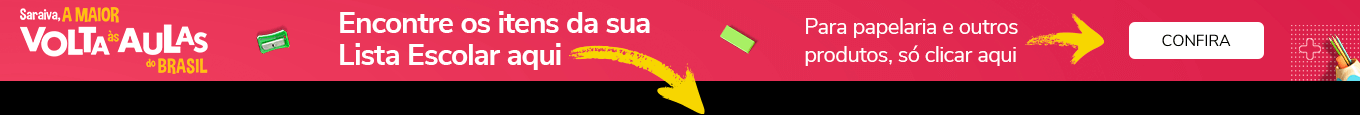
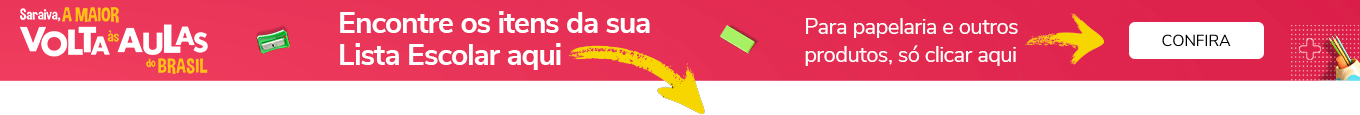
Deixei o formulario responsivo, anuncio e comecei os mais populares

Changed region(s): [[0.0, 0.6783, 1.0, 1.0]]

diff --git a/index.html b/index.html
@@ -2,10 +2,11 @@
 <html lang="pt-br">
     <head>
         <meta charset="utf-8">
+        <meta name="viewport" content="width=device-width, initial-scale=1.0">
         <title>Saraiva</title>
         <link rel="shortcut icon" href="img/fav-icon.png">
-        <link rel="stylesheet" href="style.css">
-        <link rel="stylesheet" href="responsivo.css">
+        <link rel="stylesheet" type="text/css" href="style.css">
+        <link rel="stylesheet" type="text/css" href="responsivo.css">
                 
     </head>
     <body>
@@ -23,7 +24,9 @@
                 <div id="pesquisa">
                     <!--- Menu responsivo -->
                     <div class="menu-responsivo">
-                   
+                        <span></span>
+                        <span></span>
+                        <span></span>
                     </div>
                     <!--- // Menu responsivo -->
                     <div class="img-logo" >
@@ -695,7 +698,10 @@
             <div class="carrossel">
                 <div class="slide slide-1" id="slide1">
                     <a href="#slide-9">Voltar</a>
-                    <img src="img/slide-1.png" alt="Imagem 1 Slide Carrossel">
+                    <picture>
+                        <source srcset="img/slide-1-resp.png" media="(max-width: 1024px)">
+                        <img srcset="img/slide1.png" alt="My default image">
+                    </picture>
                     <a href="#slide-2">Avançar</a>
                 </div>
                 <!-- Carrossel 
@@ -745,7 +751,12 @@
 
         <!-- anuncio -->
         <div class="anuncio">
-            <a href="#"><img src="img/anuncio.png" alt=""></a>
+            <a href="#">
+                <picture>
+                <source srcset="img/anuncio-resp.png" media="(max-width: 1024px)">
+                        <img srcset="img/anuncio.png" alt="My default image">
+                </picture>
+            </a>
         </div>
         <!-- // anuncio -->
         <!-- Encontre sua lista de material escolar -->

diff --git a/responsivo.css b/responsivo.css
@@ -1,4 +1,4 @@
-@media (max-width: 1024px){
+@media screen and (max-width: 1024px){
 header #mensagem-t {
     background-image: none;
     background-color: #3E3E3E;
@@ -7,17 +7,28 @@ header #mensagem-t {
 header #mensagem-t img{
         display: block;
         margin: 0 auto;
-        width: 100%;
+        max-width: 95%;
     }
 .header-fix #pesquisa .menu-responsivo{
+    width: 10%;
+    height: 10px;
     display: block;
     float: left;
+}
+.header-fix #pesquisa .menu-responsivo span{
+    width: 30px;
+    height: 2.5px;
+    border-radius: 2px;
+    background-color: #000;
+    float: left;
+    margin-top: 7px;
 }
 .header-fix #pesquisa .img-logo{
     width: 90%;
 }
 .header-fix #pesquisa .img-logo img{
     width:60%;
+    margin: 0 0 5px 10px;
 }
 .header-fix #pesquisa .barra-pesquisa{
     width: 100%;
@@ -31,7 +42,7 @@ header #mensagem-t img{
 }
 .header-fix #pesquisa  #favoritos{
     position: absolute;
-    right: 120px;
+    right: 70px;
 }
 .header-fix #pesquisa #favoritos img{
     width: 70%;
@@ -44,32 +55,43 @@ header #mensagem-t img{
 .header-fix #pesquisa #carrinho img{
     width: 50%;
 }
+.anuncio img {
+    max-width: 100%;
+}
 #menu {
     display: none;
 }
+#lista-de-material {
+    margin: 0;
+}
 #lista-de-material .form-title{
     width: 100%;
-    height: 130px;
+    margin-left: 5%;
 }
 #lista-de-material .form-title img {
     width: 5%;
     margin: 5% 5% 0 0;
 }
 #lista-de-material .form-title h1{
-    width:50%;
-    font-size: 55px;
+    width:85%;
+    font-size: 26px;
     float: left;
 }
 #lista-de-material form p{
     width: 100%;
-    font-size: 20px;
+    margin: 5px 0 10px 5%;
+    font-size: 14px;
+    float: left;
+    
 }
 #lista-de-material form select{
-    width: 100% !important;
+    width: 90% !important;
+    display: block;
+    margin: 10px auto;
 }
 #lista-de-material form button{
     display: block;
-    margin: 0 auto;
+    margin: 0 auto 10px;
 }
 .beneficios .frete{
     width: 100%;

diff --git a/style.css b/style.css
@@ -8,7 +8,7 @@ body {
     font-family: sans-serif;
 }
 
-/* ========  Predefinições  ======== */
+/* ========  // Predefinições  ======== */
 
 /* ======== Topo ========= */
 
